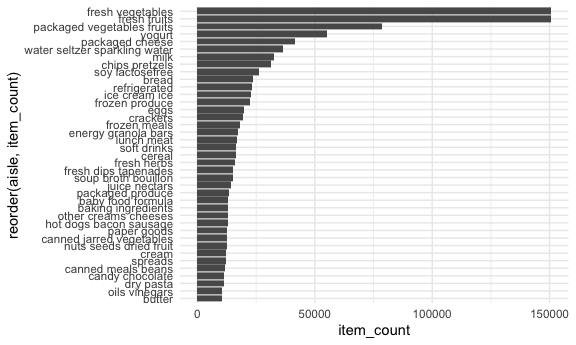
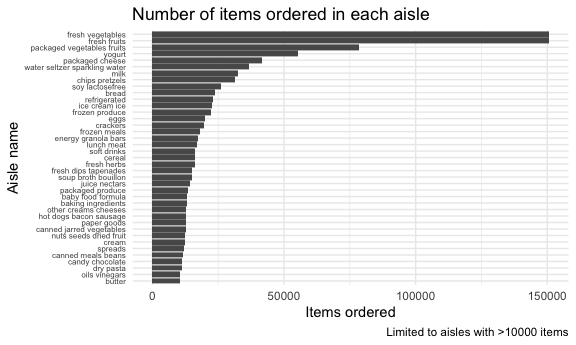
added labels (x, y, title, and caption) and changed font size for the plot of the number of items ordered in each aisle for problem 1

diff --git a/p8105_hw3_rr3423.md b/p8105_hw3_rr3423.md
@@ -51,7 +51,7 @@ There are 134 aisles in the instacart dataset. The top 3 aisles that the
 most items are ordered from in descending order are: “fresh vegetables”,
 “fresh fruits”, and “packaged vegetables fruits”.
 
-### Plot: number of items ordered in each aisle (more than 1000 items)
+### Plot of the number of items ordered in each aisle (more than 10000 items)
 
 ``` r
 plot_aisle = 
@@ -61,9 +61,20 @@ plot_aisle =
   filter(item_count > 10000) %>% 
   ggplot(aes(x = reorder(aisle, item_count), y = item_count)) +
   geom_bar(stat = "identity") +
-  coord_flip()
+  coord_flip() + 
+  labs(
+    title = "Number of items ordered in each aisle",
+    x = "Aisle name",
+    y = "Items ordered",
+    caption = "Limited to aisles with >10000 items"
+  ) + 
+  theme(axis.text.y = element_text(size = 6))
 
 plot_aisle
 ```
 
 <img src="p8105_hw3_rr3423_files/figure-gfm/aisles_plot_instacart-1.png" width="90%" />
+
+This plot also shows that the top 3 aisles that the most items are
+ordered from in descending order are: “fresh vegetables”, “fresh
+fruits”, and “packaged vegetables fruits”.
